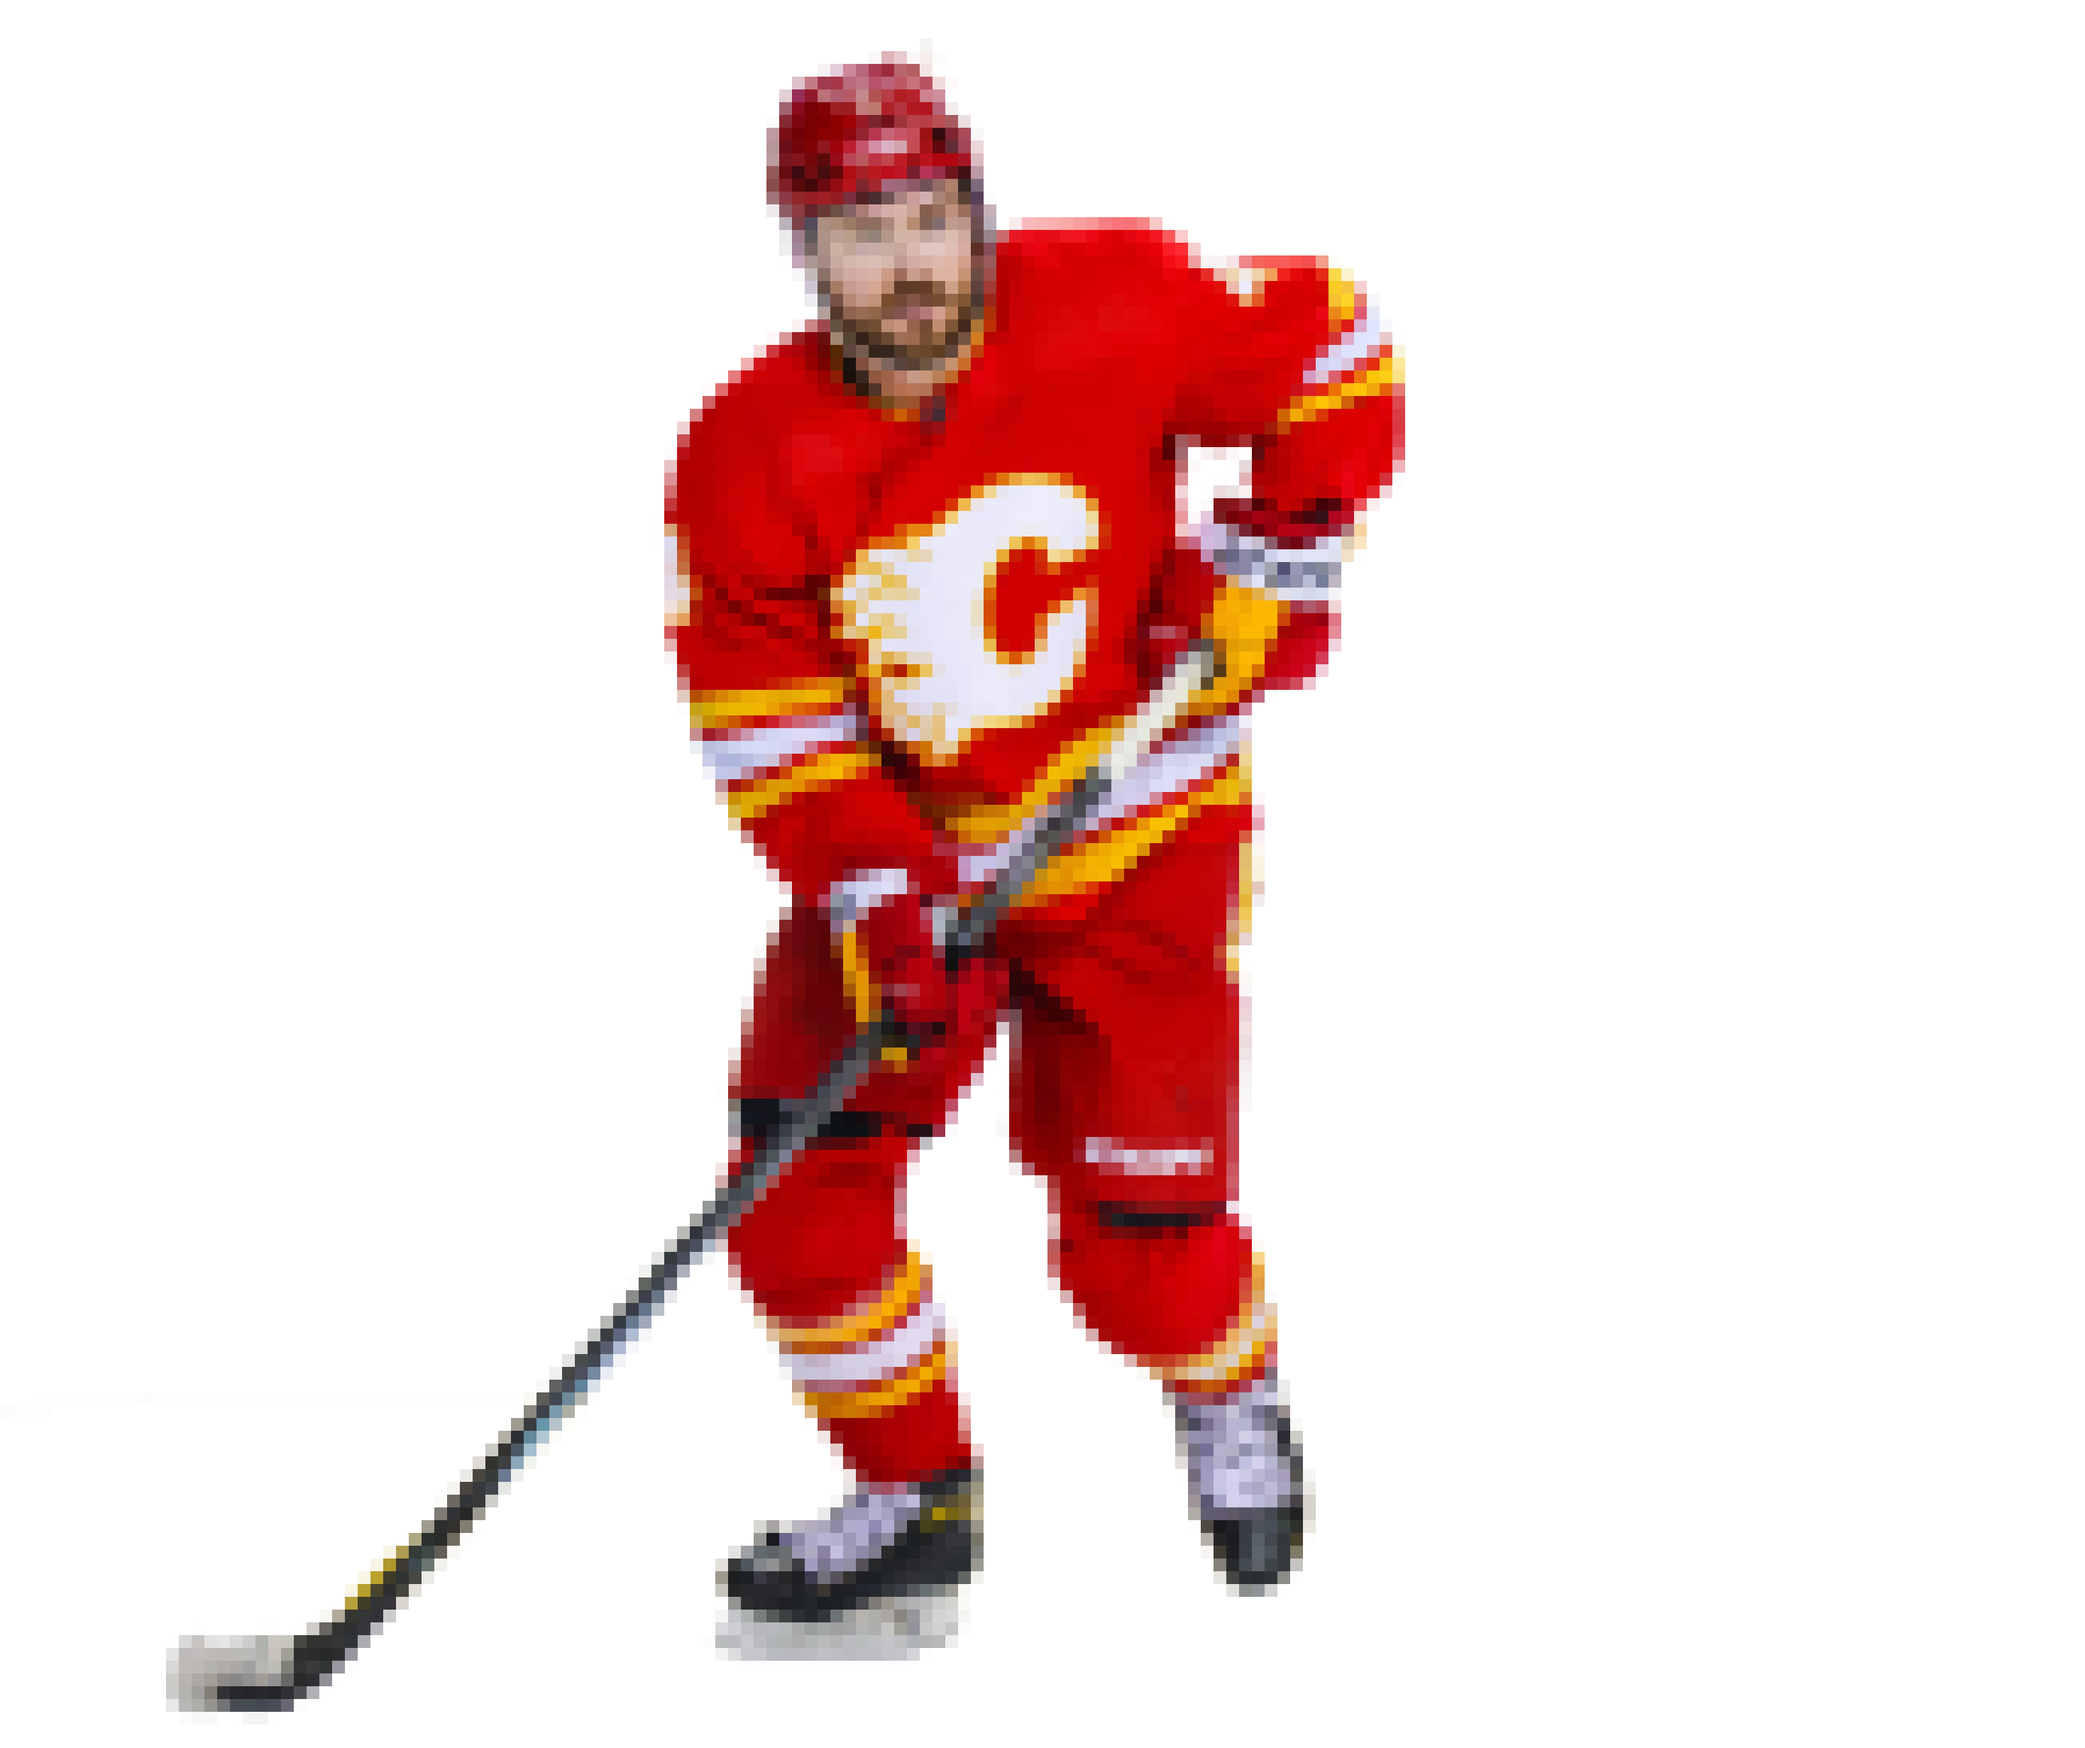
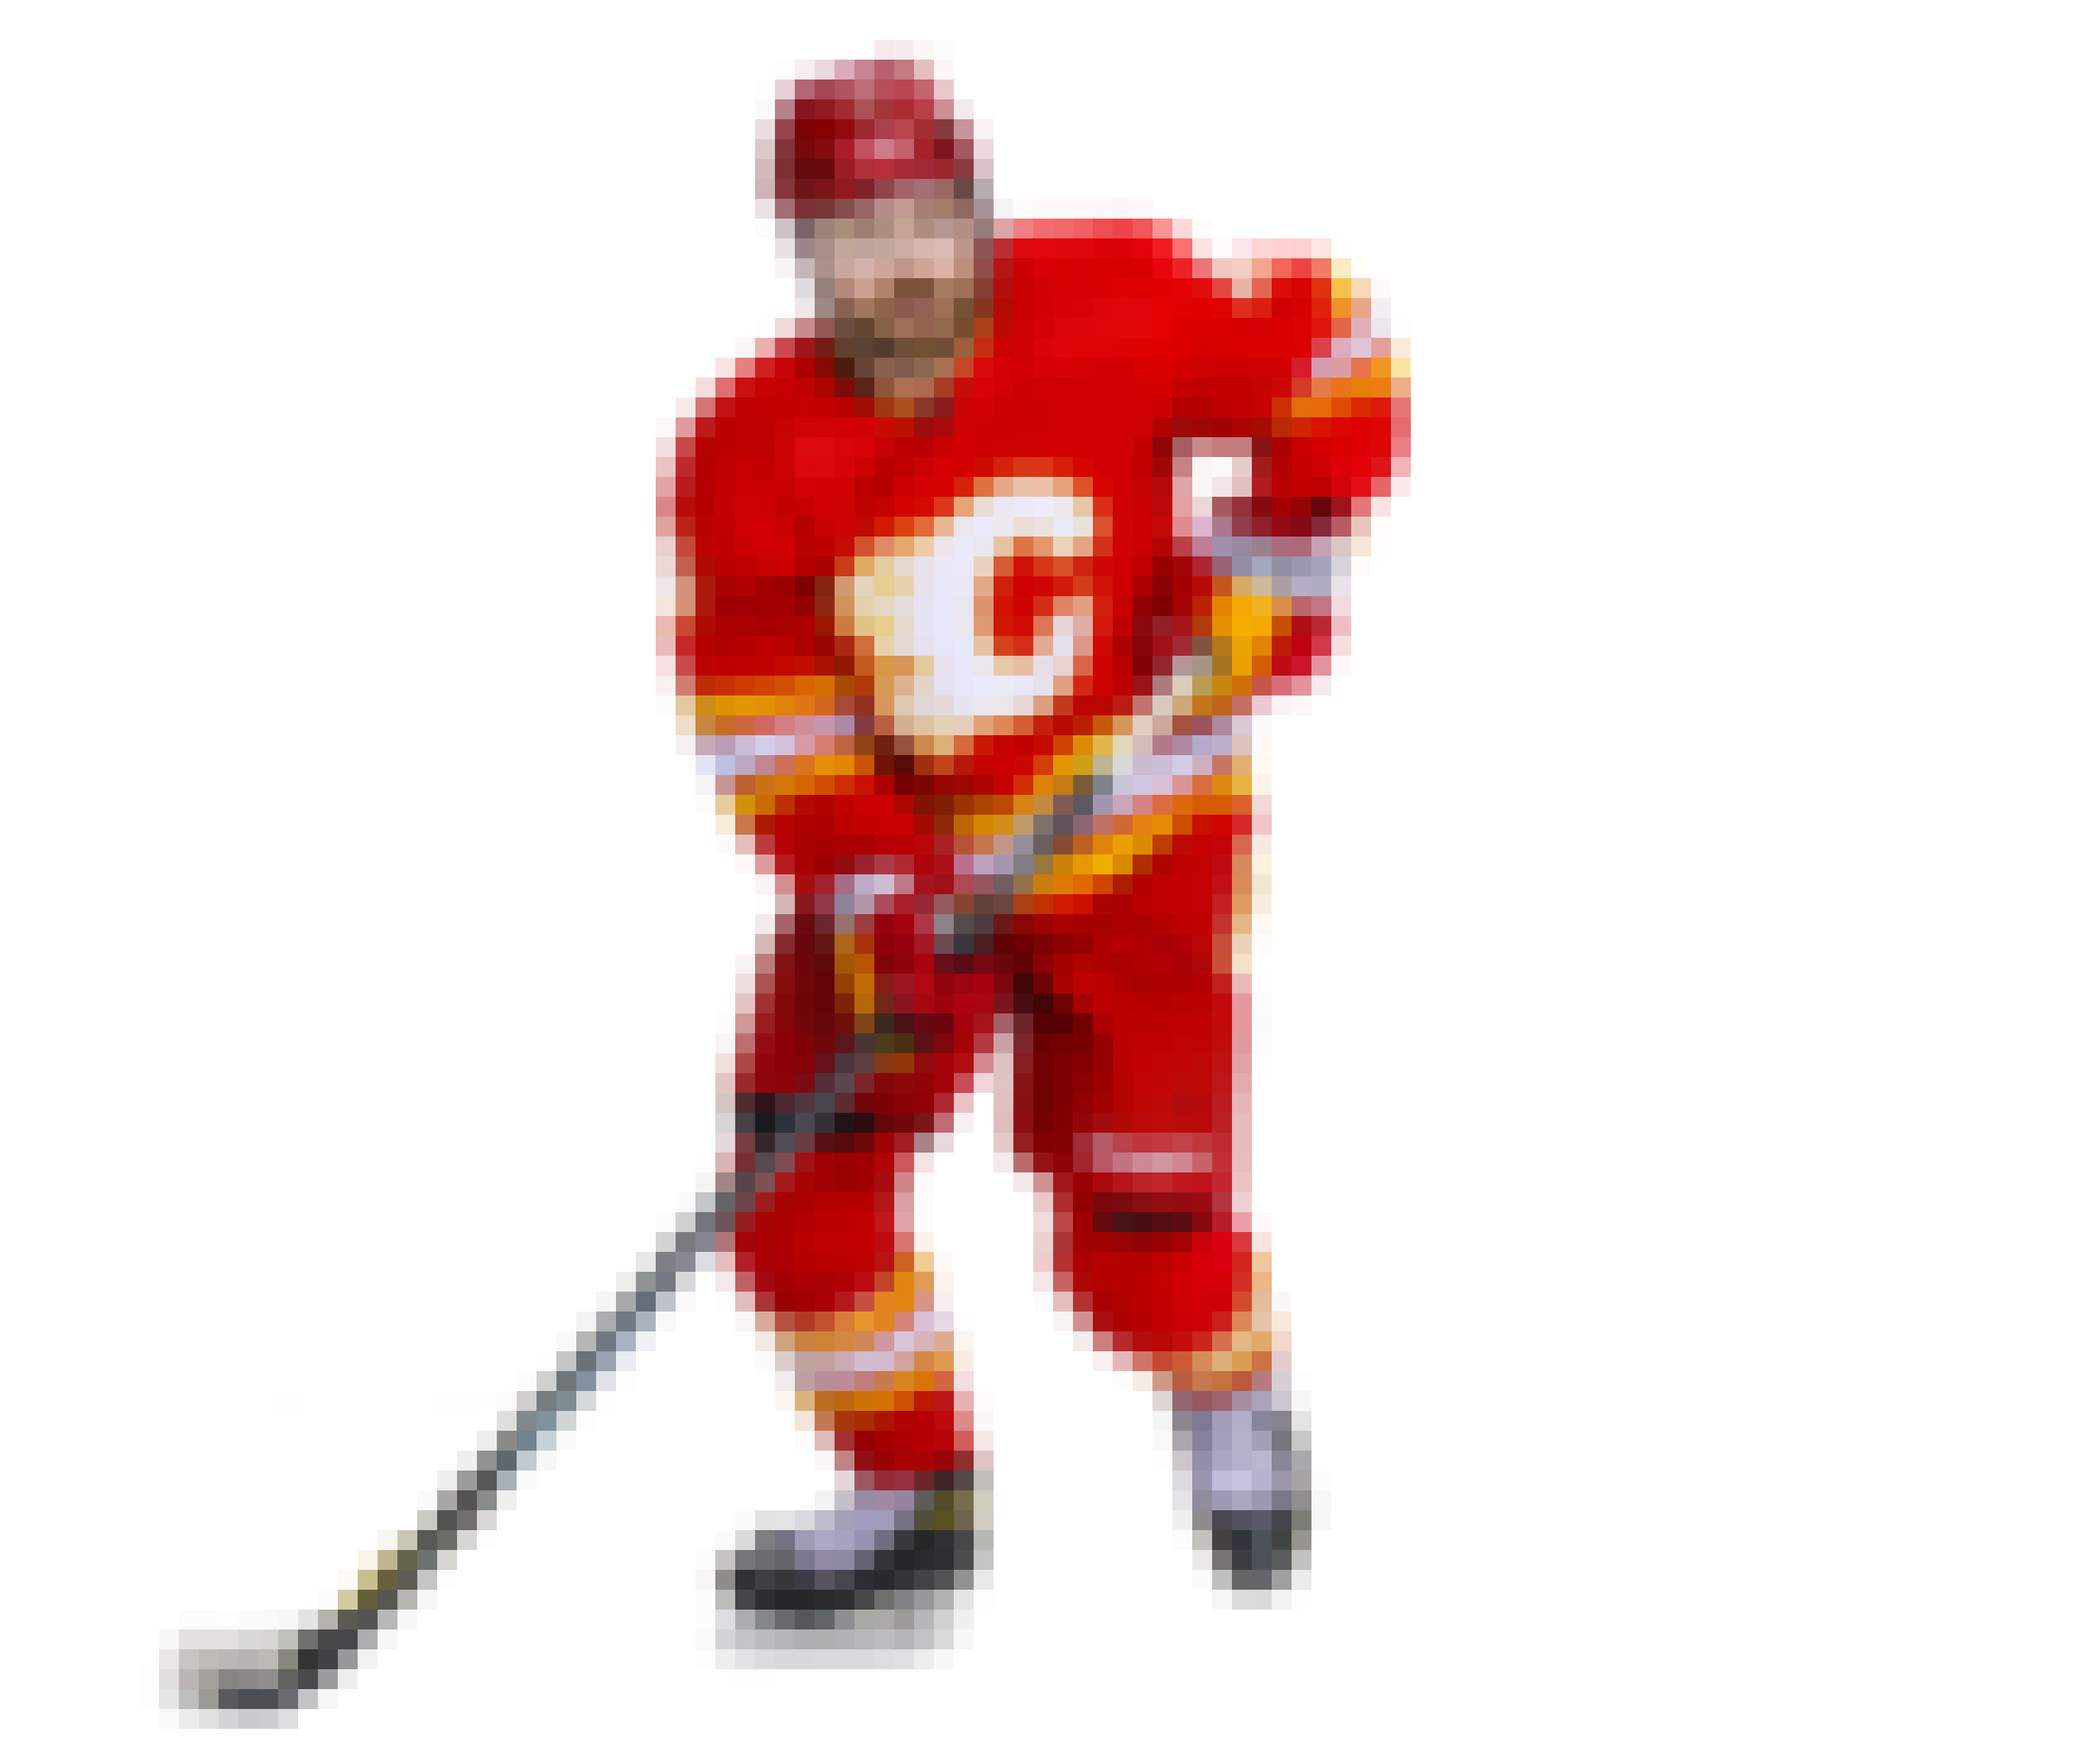
- added new players - changed background image - changed position of players

Changed region(s): [[0.0619, 0.0309, 0.6814, 1.0]]

diff --git a/src/main.js b/src/main.js
@@ -57,12 +57,12 @@ class GameScene extends Phaser.Scene {
     super("scene-game");
 
     // Declare game objects and variables
-    this.player;      
-    this.target;      
-    this.obstacles;   
-    this.angle = 0;   
-    this.speed = 400; 
-    this.shots = 0;   
+    this.player;
+    this.target;
+    this.obstacles;
+    this.angle = 0;
+    this.speed = 400;
+    this.shots = 0;
   }
 
   preload() {
@@ -71,6 +71,11 @@ class GameScene extends Phaser.Scene {
     this.load.image("puck", "assets/puck.png");
     this.load.image("net", "assets/net.png");
     this.load.image("hockeyPlayer", "assets/player.png");
+    this.load.image("player1", "assets/anderson.png");
+    this.load.image("player2", "assets/kadri.png");
+    this.load.image("player3", "assets/weegar.png");
+    this.load.image("player4", "assets/kuzzy.png");
+    this.load.image("player5", "assets/mullen.png");
   }
 
   create() {
@@ -95,9 +100,11 @@ class GameScene extends Phaser.Scene {
     });
 
     // Create the goal net
-    this.target = this.physics.add.staticImage(sizes.width - 80, 50, "net")
-      .setOrigin(0.8, 0.3)
-      .setScale(1.5);
+    this.target = this.physics.add.staticImage(sizes.width - 80, 240, "net") 
+      .setOrigin(0.5) 
+      .setScale(1.0, 1.2) 
+      .setAngle(90); 
+
 
     // Add the aiming arrow 
     this.aimLine = this.add.graphics({ lineStyle: { width: 4, color: 0xff0000 } });
@@ -110,17 +117,21 @@ class GameScene extends Phaser.Scene {
 
     // Add the players and set their positions 
     this.obstacles = this.physics.add.staticGroup();
-    const positions = [
-      { x: 300, y: 200 },
-      { x: 600, y: 200 },
-      { x: 700, y: 400 }
+    const playerData = [
+      { x: 300, y: 100, key: "player1" },
+      { x: 700, y: 100, key: "player2" },
+      { x: 700, y: 400, key: "player3" },
+      { x: 500, y: 300, key: "player4" },
+      { x: 200, y: 400, key: "player5" },
     ];
-    positions.forEach(pos => {
-      const obstacle = this.obstacles.create(pos.x, pos.y, "hockeyPlayer")
+
+    playerData.forEach(data => {
+      const obstacle = this.obstacles.create(data.x, data.y, data.key)
         .setOrigin(0.5)
         .setScale(0.05);
       obstacle.refreshBody();
     });
+
 
     // Detect collisions between the puck and the obstacles
     this.physics.add.collider(this.player, this.obstacles, this.handleObstacleCollision, null, this);
@@ -163,7 +174,7 @@ class GameScene extends Phaser.Scene {
     // Check to see if the puck has went into the net 
     if (Phaser.Geom.Intersects.RectangleToRectangle(this.player.getBounds(), this.target.getBounds())) {
       console.log('Goal scored!');
-      
+
       // Reset puck after the puck goes into the net 
       this.time.delayedCall(1000, () => {
         this.player.setVelocity(0, 0);
@@ -181,17 +192,17 @@ class GameScene extends Phaser.Scene {
 
 // Configure the Phaser game
 const config = {
-  type: Phaser.WEBGL,          
+  type: Phaser.WEBGL,
   width: sizes.width,
   height: sizes.height,
-  canvas: gameCanvas,           
+  canvas: gameCanvas,
   physics: {
-    default: "arcade",          
+    default: "arcade",
     arcade: {
-      debug: false              
+      debug: false
     }
   },
-  scene: [MainMenu, GameScene],          
+  scene: [MainMenu, GameScene],
 };
 
 const game = new Phaser.Game(config);
